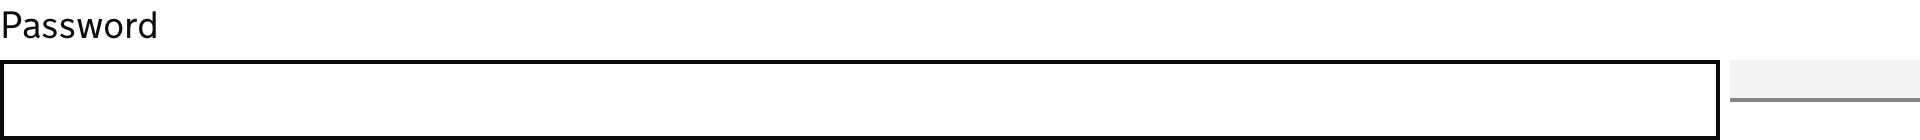
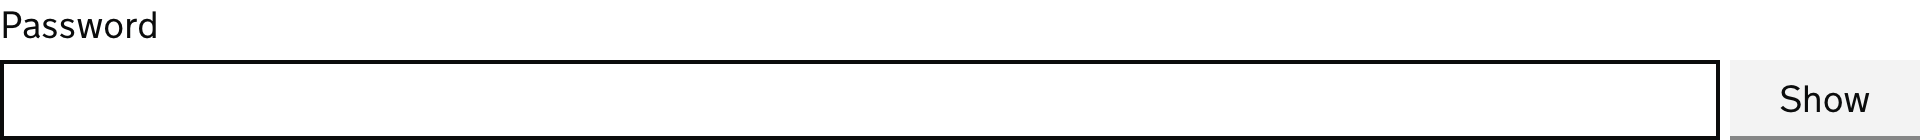
Fix default button content on PasswordInputTagHelper

Changed region(s): [[0.9062, 0.6571, 1.0, 0.8], [0.875, 0.9714, 1.0, 1.0], [0.9062, 0.6, 0.9375, 0.6571]]

diff --git a/src/GovUk.Frontend.AspNetCore/ComponentGeneration/DefaultComponentGenerator.PasswordInput.cs b/src/GovUk.Frontend.AspNetCore/ComponentGeneration/DefaultComponentGenerator.PasswordInput.cs
@@ -8,7 +8,7 @@ internal partial class DefaultComponentGenerator
     {
         ArgumentNullException.ThrowIfNull(options);
 
-        var id = options.Id ?? options.Name;
+        var id = options.Id.WithEmptyFallback(options.Name);
 
         var describedByParts = new List<TemplateString>();
         if (options.DescribedBy is var describedBy && !describedBy.IsEmpty())
@@ -88,7 +88,7 @@ internal partial class DefaultComponentGenerator
             .WithClasses(inputClasses)
             .With("value", options.Value)
             .With("aria-describedby", TemplateString.Join(" ", describedByParts))
-            .With("autocomplete", options.AutoComplete ?? "current-password")
+            .With("autocomplete", options.AutoComplete.WithEmptyFallback("current-password"))
             .With("autocapitalize", "none")
             .WithBoolean("disabled", options.Disabled is true)
             .With(options.Attributes)
@@ -112,10 +112,10 @@ internal partial class DefaultComponentGenerator
             .WithClasses(buttonClasses)
             .With("data-module", "govuk-button")
             .With("aria-controls", id)
-            .With("aria-label", options.ShowPasswordAriaLabelText ?? "Show password")
+            .With("aria-label", options.ShowPasswordAriaLabelText.WithEmptyFallback("Show password"))
             .WithBoolean("hidden"));
 
-        buttonElement.InnerHtml.Append((options.ShowPasswordText ?? "Show").ToHtmlString());
+        buttonElement.InnerHtml.Append(options.ShowPasswordText.WithEmptyFallback("Show").ToHtmlString());
 
         wrapperDiv.InnerHtml.AppendHtml(buttonElement);
 

diff --git a/CHANGELOG.md b/CHANGELOG.md
@@ -17,6 +17,8 @@ Fixes default navigation ID and menu button text on service navigation component
 
 Fixes `Cache-Control` header value for hosted stylesheet, javascript and static assets.
 
+Fixes default button content on `<govuk-password-input>`.
+
 ## 4.1.1
 
 Adds `AddPageError` extension method to `HttpContext`.